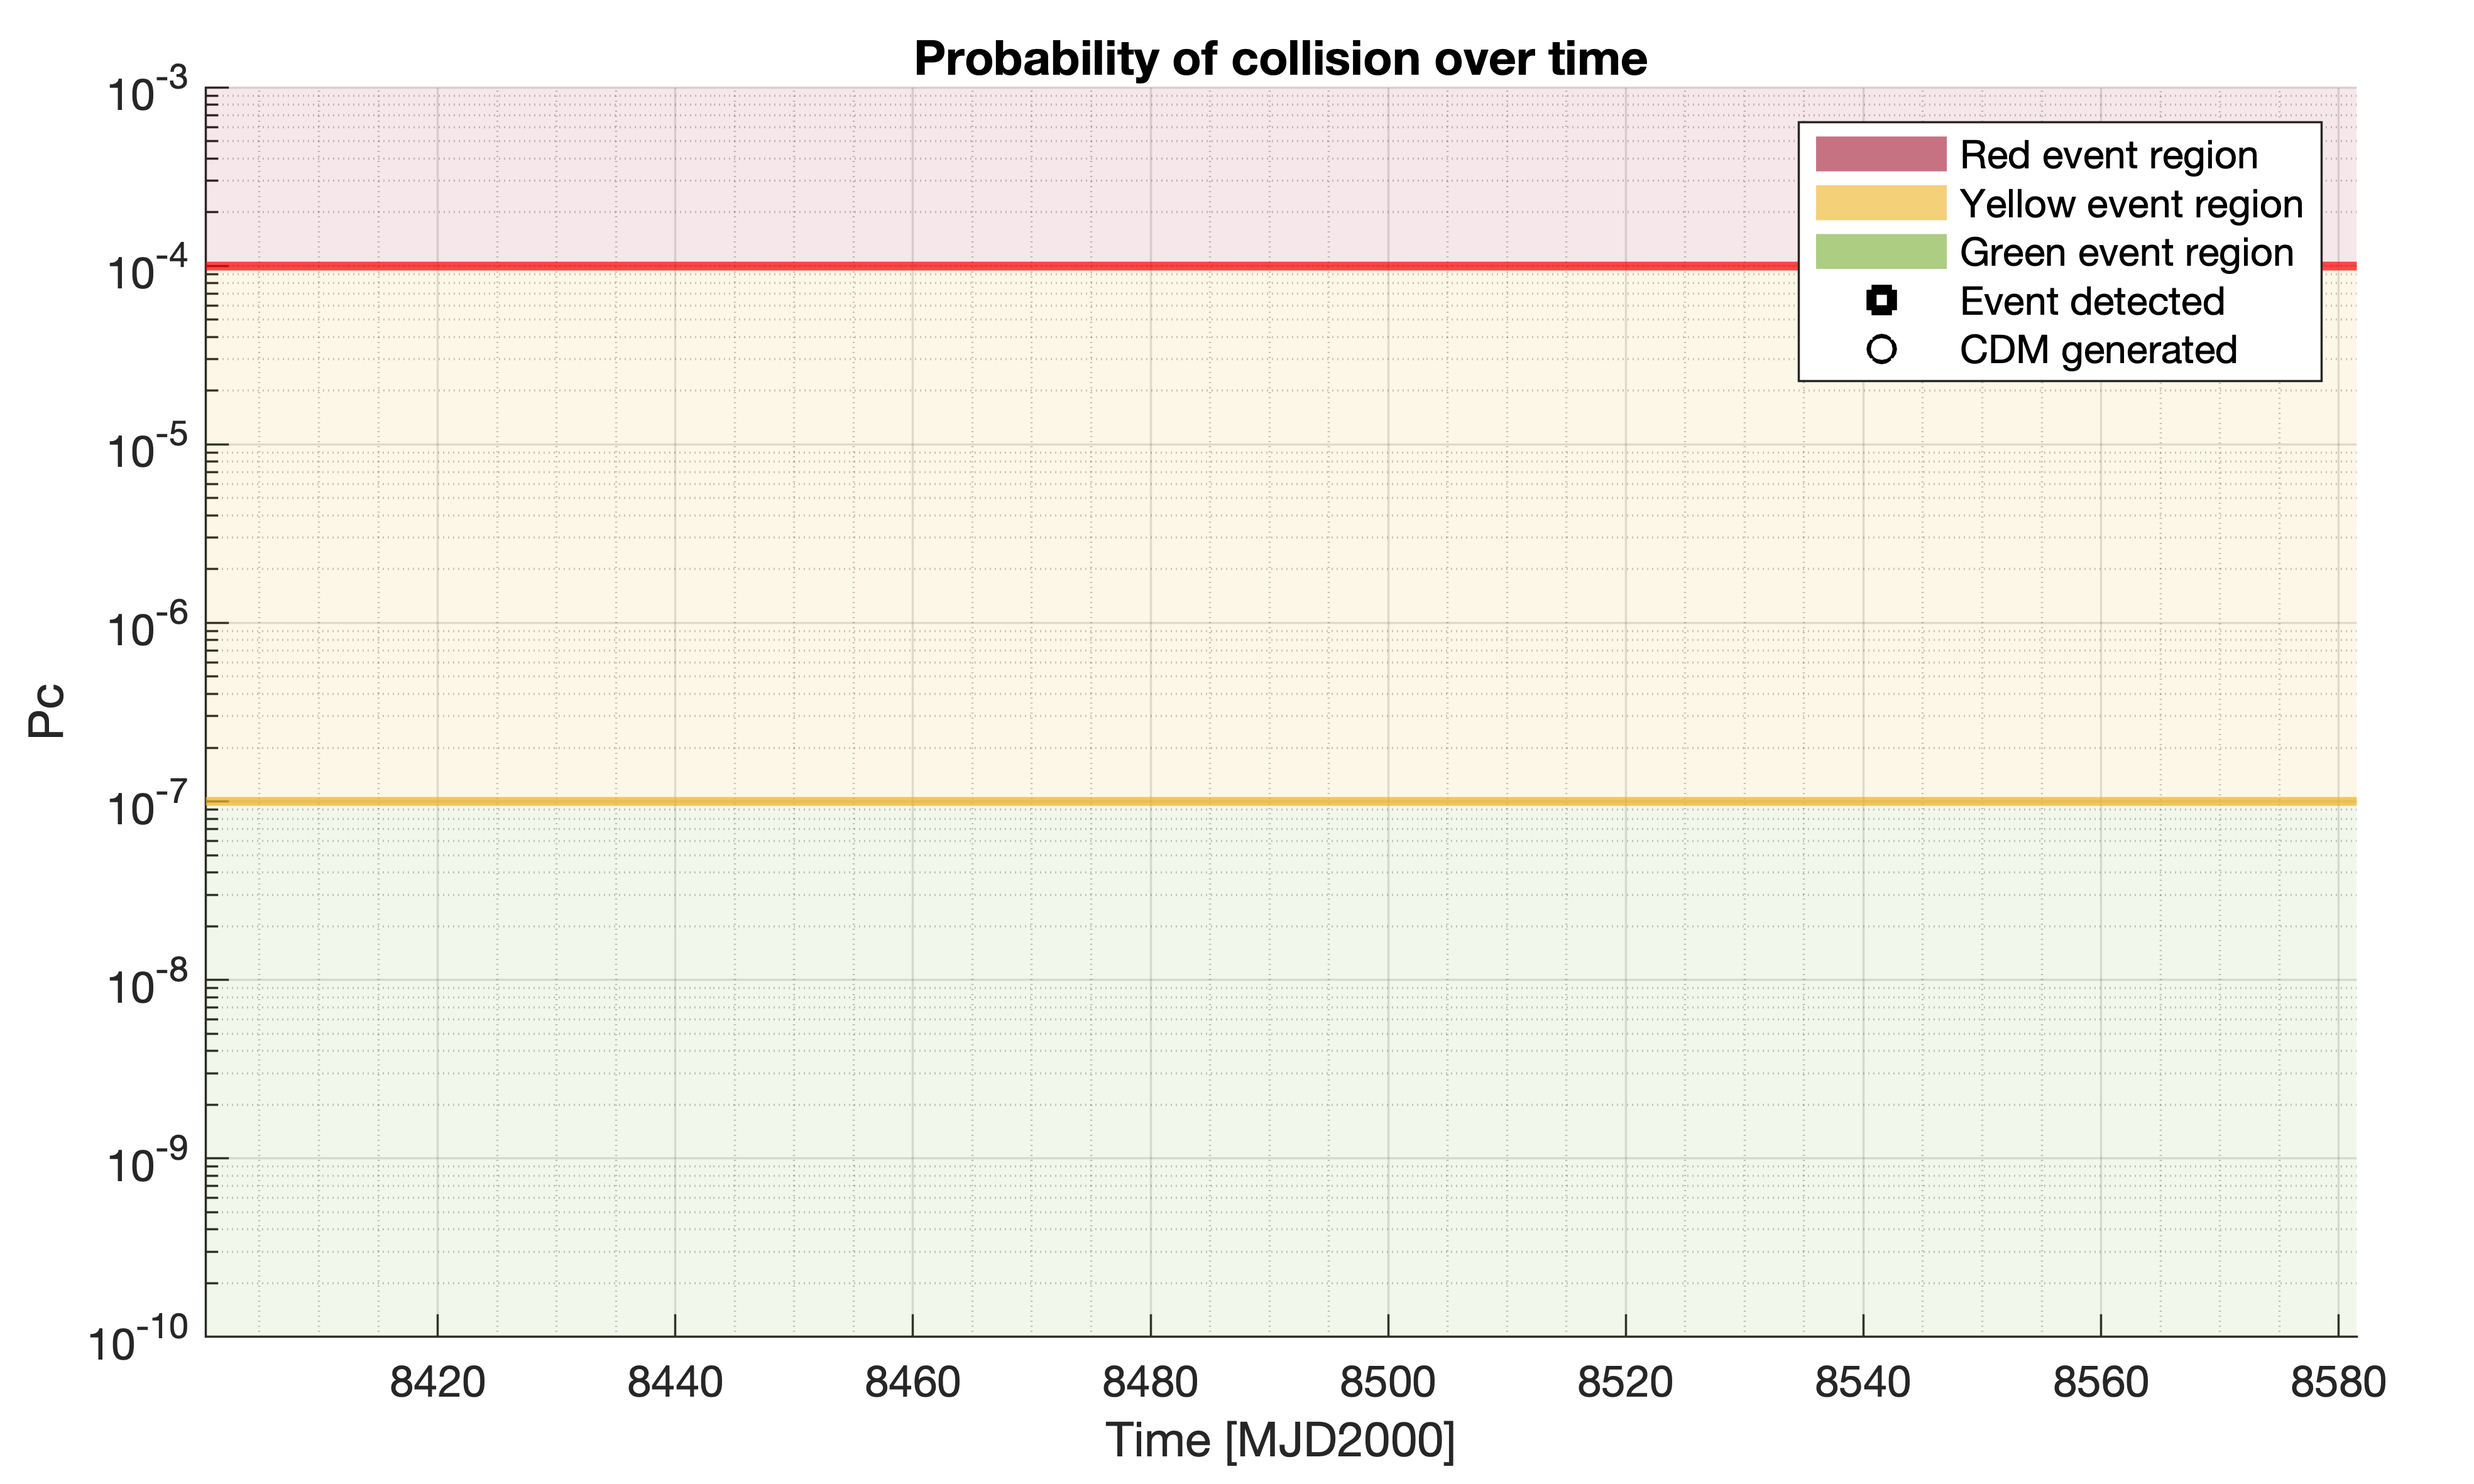
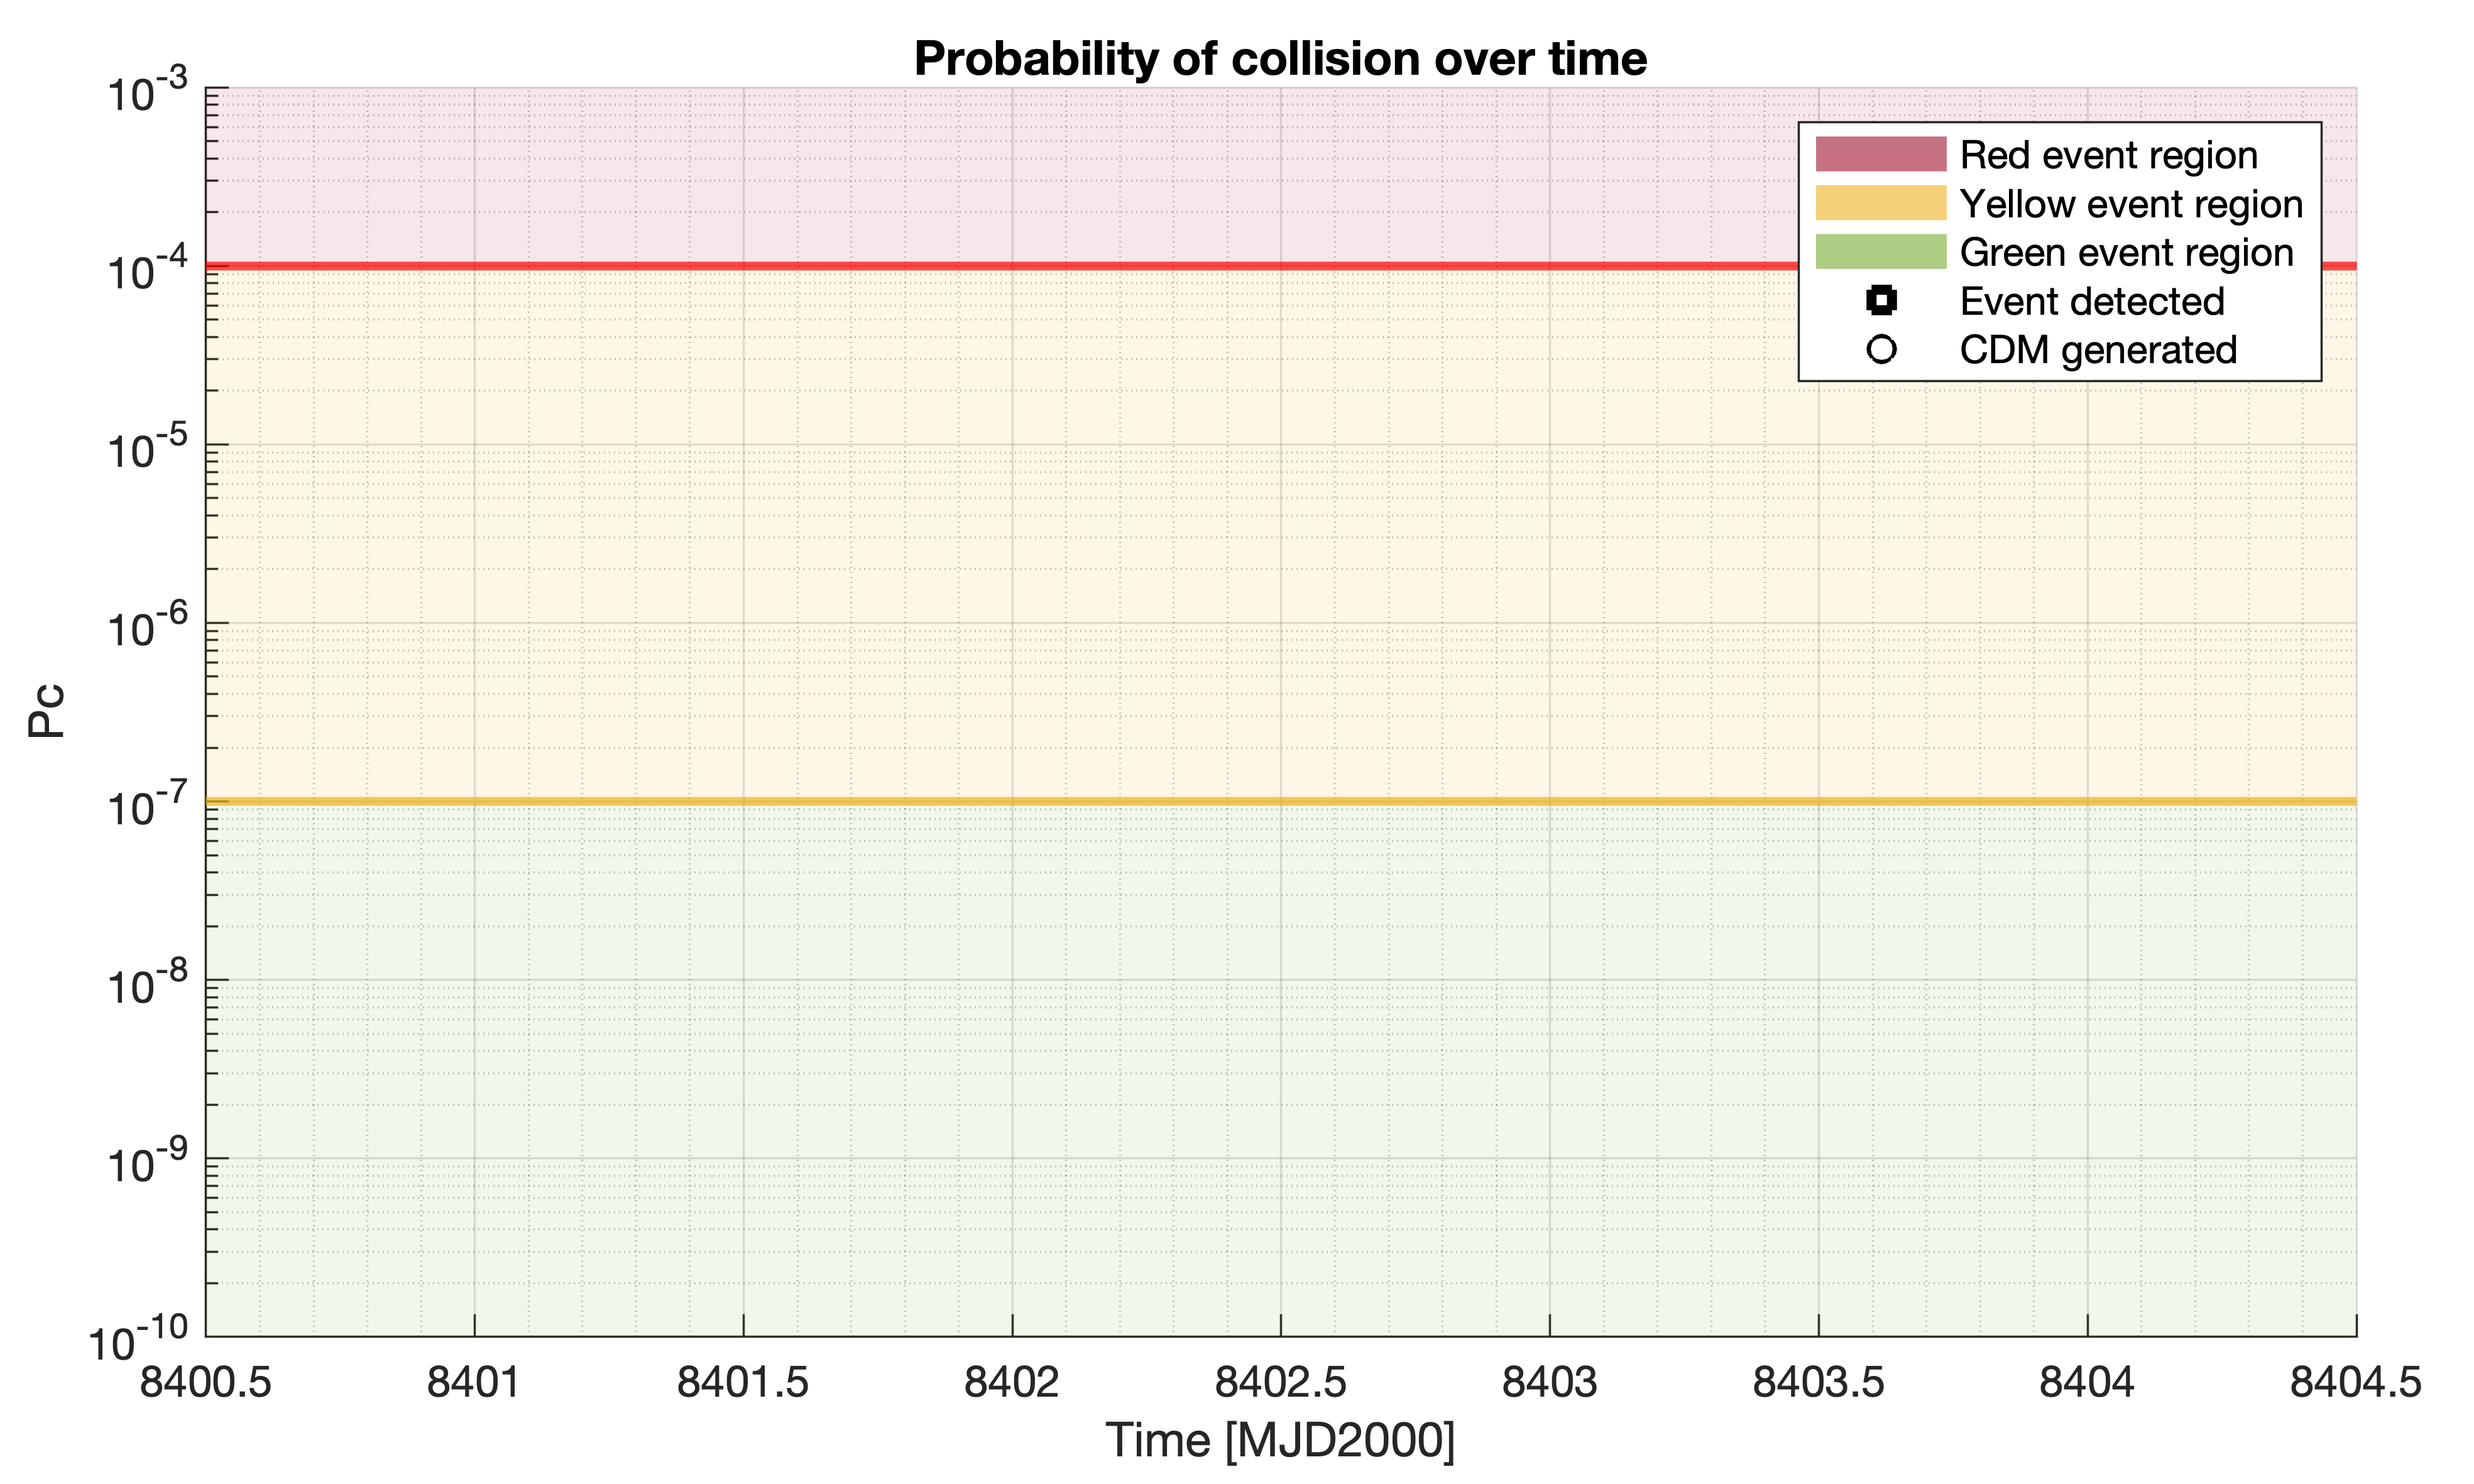
Manual_process, debris_size_density_distr, small changessmall changes

diff --git a/Code/Main.m b/Code/Main.m
@@ -3,18 +3,18 @@
 clc;
 clear;
 
-addpath('Functions\');
-addpath('Functions\NASA\');
-addpath('Functions\');
-addpath('Time_conversion\');
-addpath("Data\");
+addpath('Functions/');
+addpath('Functions/NASA/');
+%addpath('Functions\');
+addpath('Time_conversion/');
+addpath("Data/");
 
 
 
 %% User inputs
 tic
 epoch = [2023 1 1 0 0 0];
-end_date= [2023 7 1 0 0 0];           % Simulation end date and time in gregorian calender
+end_date= [2023 1 5 0 0 0];           % Simulation end date and time in gregorian calender
 %epoch = [2015 1 1 0 0 0]; end_date = [2015 7 1 0 0 0];
 %epoch = [2005 1 1 0 0 0]; end_date = [2005 7 1 0 0 0];
 accelerator=0;                          % details to be added

diff --git a/Code/Functions/Manual_process.m b/Code/Functions/Manual_process.m
@@ -1,0 +1,30 @@
+% FUNCTION NAME:
+%   Manual_process
+%
+% DESCRIPTION:
+%   This function simulates the manual process of NASA CARA. It includes Pc vs HBR, MTS and SWTS
+%
+% INPUT:
+%
+%
+% OUTPUT:
+%
+%
+%
+%
+%
+% ASSUMPTIONS AND LIMITATIONS:
+%
+% REVISION HISTORY:
+%   Dates in DD/MM/YYYY
+%
+%   06/05/2024 - Jonathan Wei
+%       * Header added
+
+
+if TLE_input_mode
+    %Pc vs HBR simplified
+    if 
+
+end
+
